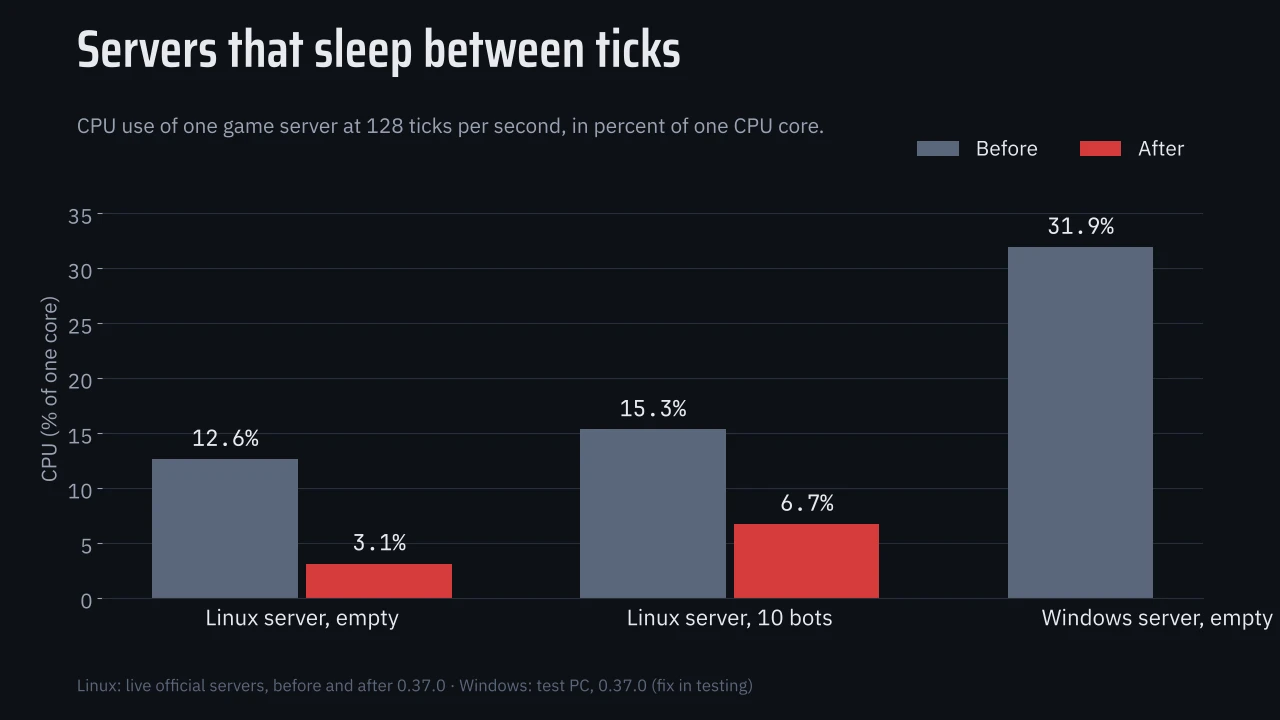
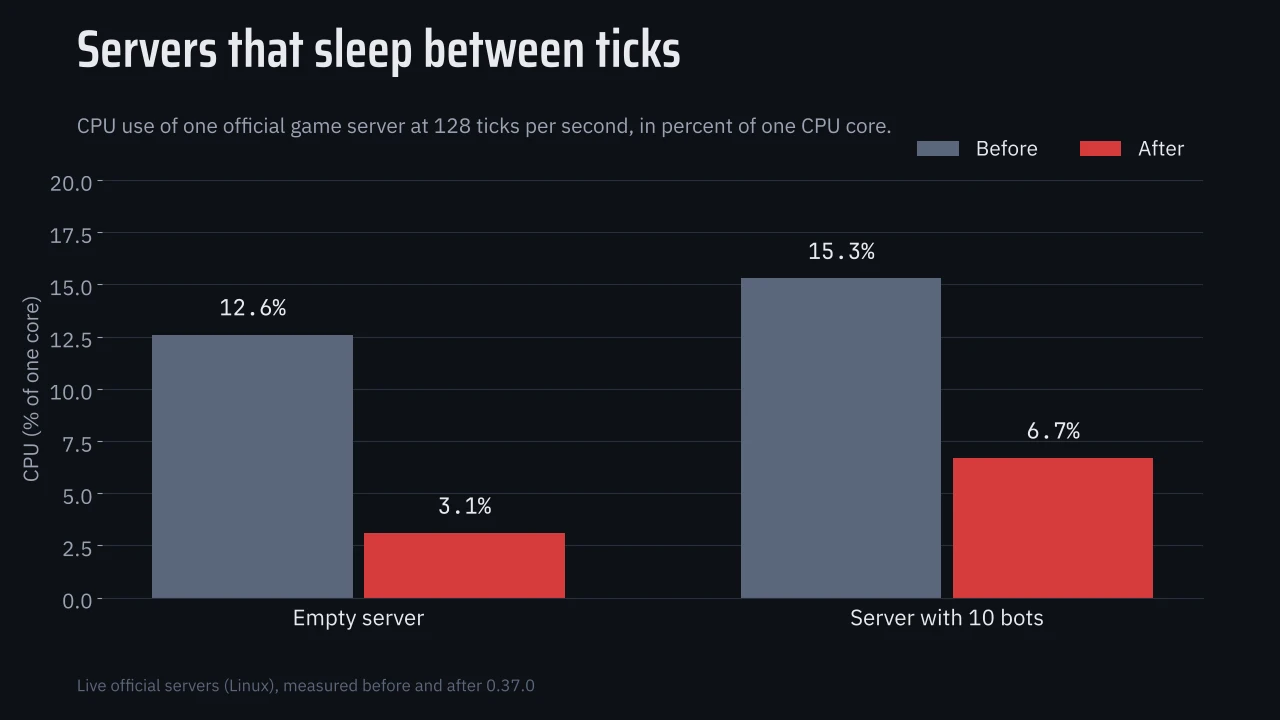
Devlog: correct the Windows server section of Measuring every millisecond

diff --git a/docs/nl/devlog-performance-audit.html b/docs/nl/devlog-performance-audit.html
@@ -129,7 +129,7 @@
   <img src="../img/devlog/perf-server-cpu.webp" alt="Processorgebruik van een gameserver voor en na de oplossing." width="1280" height="720" loading="lazy">
   <figcaption>Processorgebruik van één gameserver op 128 ticks per seconde, voor en na de oplossing.</figcaption>
 </figure>
-<p>Windows bleek erger. Windows kan alleen wachten in stappen van hele milliseconden, dus een Windows-server bleef tot twee milliseconden van elke tick actief wachten. Een lege Windows-server gebruikte bijna een derde van een processorkern. Dat merk je als je zelf een server op je pc host. De oplossing voor Windows wordt getest voor een komende update. Ze gebruikt een nauwkeurige timer van Windows 10 en 11 die op tijd wakker wordt zonder actief te wachten.</p>
+<p>Windows heeft dezelfde gewoonte. Windows kan alleen wachten in stappen van hele milliseconden, dus een Windows-server kan tot twee milliseconden van elke tick actief wachten. Dat merk je als je zelf een server op je pc host. Een oplossing voor Windows wordt getest. Ze gebruikt een nauwkeurige timer van Windows 10 en 11, zodat de server kan slapen. In onze eerste tests daalde het processorgebruik van een lege server ongeveer tienvoudig, maar de ticks waren nog niet zo stipt als we willen, dus we stellen ze bij voordat de oplossing verschijnt.</p>
 <p>Niets hiervan verandert hoe het spel speelt. Ticks komen even precies als voorheen. De servers stoppen gewoon met werken als er niets te doen is.</p>
 <h2 id="een-kleinere-download">Een kleinere download</h2>
 <p>Elke release bevatte vroeger een volledige zip van het spel als reservedownload. Die zip kwam dicht bij de limiet van 2,08 GB voor een bestand bij een release, en 0.37.0 zou erover zijn gegaan.</p>

diff --git a/docs/devlog-performance-audit.html b/docs/devlog-performance-audit.html
@@ -129,7 +129,7 @@
   <img src="img/devlog/perf-server-cpu.webp" alt="Game server CPU use before and after the fix." width="1280" height="720" loading="lazy">
   <figcaption>CPU use of one game server at 128 ticks per second, before and after the fix.</figcaption>
 </figure>
-<p>Windows turned out to be worse. Windows can only wait in steps of whole milliseconds, so a Windows server busy-waited for up to two milliseconds of every tick. An empty Windows server used almost a third of a CPU core. That matters if you host a server on your own PC. The fix for Windows is in testing for an upcoming update. It uses a high-precision timer that Windows 10 and 11 provide, which wakes on time without busy-waiting.</p>
+<p>Windows has the same habit. Windows can only wait in steps of whole milliseconds, so a Windows server can busy-wait for up to two milliseconds of every tick. That matters if you host a server on your own PC. A fix for Windows is in testing. It uses a high-precision timer that Windows 10 and 11 provide, so the server can sleep instead. In our first tests it cut an empty server's CPU use about tenfold, but its ticks were not yet as punctual as we want, so we are tuning it before it ships.</p>
 <p>None of this changes how the game plays. Ticks arrive on time, just as before. The servers simply stop working while there is nothing to do.</p>
 <h2 id="a-smaller-download">A smaller download</h2>
 <p>Every release used to include a full-game zip as a backup download. That zip was getting close to the 2.08 GB limit for a file on a release, and 0.37.0 would have gone over it.</p>

diff --git a/tools/website/devlog/performance-audit.nl.md b/tools/website/devlog/performance-audit.nl.md
@@ -46,7 +46,7 @@ Op Linux, waar de officiële servers draaien, lost 0.37.0 dit al op. Een server 
 
 ![Processorgebruik van een gameserver voor en na de oplossing.](img/devlog/perf-server-cpu.webp "Processorgebruik van één gameserver op 128 ticks per seconde, voor en na de oplossing.")
 
-Windows bleek erger. Windows kan alleen wachten in stappen van hele milliseconden, dus een Windows-server bleef tot twee milliseconden van elke tick actief wachten. Een lege Windows-server gebruikte bijna een derde van een processorkern. Dat merk je als je zelf een server op je pc host. De oplossing voor Windows wordt getest voor een komende update. Ze gebruikt een nauwkeurige timer van Windows 10 en 11 die op tijd wakker wordt zonder actief te wachten.
+Windows heeft dezelfde gewoonte. Windows kan alleen wachten in stappen van hele milliseconden, dus een Windows-server kan tot twee milliseconden van elke tick actief wachten. Dat merk je als je zelf een server op je pc host. Een oplossing voor Windows wordt getest. Ze gebruikt een nauwkeurige timer van Windows 10 en 11, zodat de server kan slapen. In onze eerste tests daalde het processorgebruik van een lege server ongeveer tienvoudig, maar de ticks waren nog niet zo stipt als we willen, dus we stellen ze bij voordat de oplossing verschijnt.
 
 Niets hiervan verandert hoe het spel speelt. Ticks komen even precies als voorheen. De servers stoppen gewoon met werken als er niets te doen is.
 

diff --git a/tools/website/devlog/performance-audit.en.md b/tools/website/devlog/performance-audit.en.md
@@ -46,7 +46,7 @@ On Linux, where the official servers run, 0.37.0 already fixes this. A server no
 
 ![Game server CPU use before and after the fix.](img/devlog/perf-server-cpu.webp "CPU use of one game server at 128 ticks per second, before and after the fix.")
 
-Windows turned out to be worse. Windows can only wait in steps of whole milliseconds, so a Windows server busy-waited for up to two milliseconds of every tick. An empty Windows server used almost a third of a CPU core. That matters if you host a server on your own PC. The fix for Windows is in testing for an upcoming update. It uses a high-precision timer that Windows 10 and 11 provide, which wakes on time without busy-waiting.
+Windows has the same habit. Windows can only wait in steps of whole milliseconds, so a Windows server can busy-wait for up to two milliseconds of every tick. That matters if you host a server on your own PC. A fix for Windows is in testing. It uses a high-precision timer that Windows 10 and 11 provide, so the server can sleep instead. In our first tests it cut an empty server's CPU use about tenfold, but its ticks were not yet as punctual as we want, so we are tuning it before it ships.
 
 None of this changes how the game plays. Ticks arrive on time, just as before. The servers simply stop working while there is nothing to do.
 
